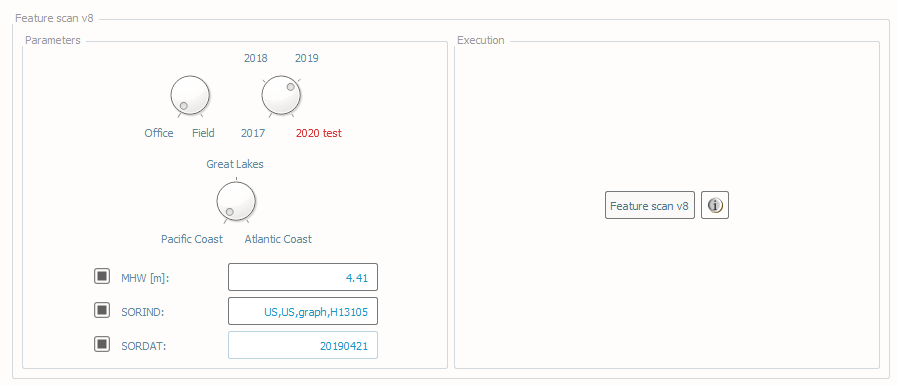
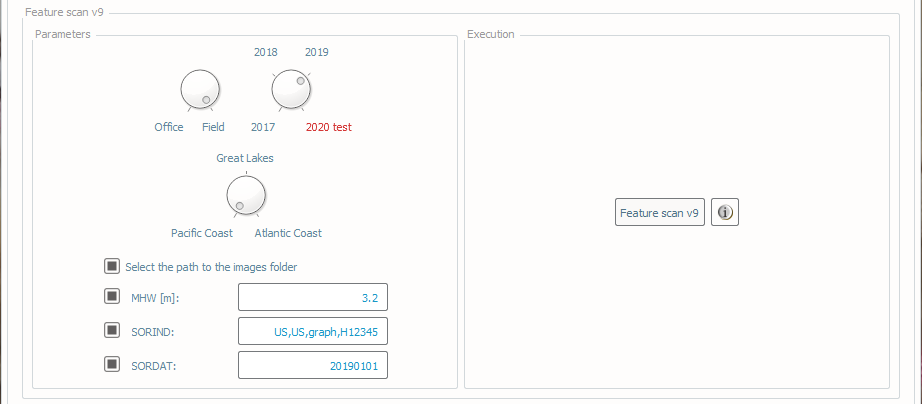
docs updates after Tyanne

Changed region(s): [[0.0, 0.0, 1.0, 1.0], [0.6548, 0.4663, 0.8107, 0.5596], [0.0935, 0.7772, 0.1871, 0.8394]]

diff --git a/examples/workground/ex_how_to_read_grid_layers.py b/examples/workground/ex_how_to_read_grid_layers.py
@@ -11,7 +11,7 @@ default_logging.load()
 logger = logging.getLogger()
 
 # path = r"C:\Users\gmasetti\Google Drive\QC Tools\data\survey\QuickTest.bag"
-path = r"C:\Users\gmasetti\Google Drive\QC Tools\data\survey\Find Fliers\VR_Test\H13015_MB_VR_MLLW_Final_Extracted.csar"
+path = r"C:\Users\gmasetti\Google Drive\QC Tools\data\survey\Find Fliers\VR_Test\H13015_MB_VR_MLLW_Final_Extracted_8_tiles.csar"
 DEFAULT_CHUNK_SIZE = 4294967296  # 4GB
 
 grids = GridsManager()

diff --git a/docs/user_manual_survey_scan_features.rst b/docs/user_manual_survey_scan_features.rst
@@ -23,6 +23,8 @@ In order to access this tool, load an S-57 file into the **Data Inputs** tab.
 
   #. Turn the knob to select the applicable location. (This effects the definition of WATLEV per the HSSD.)
 
+  #. When **Select the path to the images folder** is set, the user can navigate to their multimedia or images folder upon exicution of the tool. When this is unchecked, Feature scan will search in the relative path that the feature file is located. 
+  
   #. **MHW** value is required to check proper attribution of WATLEV per the HSSD. Enter MHW value as a positive number. (This value is not used for Great Lakes).
 
   #. When **SORIND** and **SORDAT** are set, the entered values are compared to the attribution of new and updated features.
@@ -30,7 +32,7 @@ In order to access this tool, load an S-57 file into the **Data Inputs** tab.
 .. index::
     single: feature scan
 
-* In **Execution**, click **Feature scan v8** (note that the '2019 test' option is used to experiment with future
+* In **Execution**, click **Feature scan v8** (note that the '2020 test' option is used to experiment with future
   requirements).
 
 .. _fig_feature_scan:
@@ -66,7 +68,7 @@ How Does It Work?
 
 The S-57 features are scanned to ensure proper attribution per the required year of HSSD.
 
-The logic for the 2018 QC Tools feature scan is shown below. For previous years, refer to the HSSD for that year.
+The logic for the 2019 QC Tools feature scan is shown below. For previous years, refer to the HSSD for that year.
 
 * Check to ensure no feature redundancy.
 * All new and updated features except **"$AREAS", "$LINES", "$CSYMB", "$COMPS",** and **"$TEXTS"**.
@@ -102,11 +104,13 @@ The logic for the 2018 QC Tools feature scan is shown below. For previous years,
 * Additionally, if MHW flag is set, all features with **VALSOU** are checked for valid value and proper **WATLEV** attribution. [3]_
 * All features with **"ELEVAT"** are checked for valid value.
 * All **M_COVR** must have **"CATCOV", "INFORM",** and **"NINFOM".**
+* All **"images"** contain the correct naming convention and they have a corresponding image in the multimedia folder. 
 * Specific for the Office Profile:
     * All features must have **"onotes".**
     * All features must have **"hsdrec".**
     * Checks for features that are prohibited by MCD (**"DRGARE", "LOGPON", "PIPARE", "PIPOHD", "PIPSOL", "DMPGRD" "LIGHTS", "BOYLAT", "BOYSAW", "BOYSPP", "DAYMAR", "FOGSIG", "CBLSUB", "CBLARE", "FAIRWY", "RTPBCN", "BOYISD", "BOYINB", "BOYCAR", "CBLOHD", "OBSTRN"** with **"CATOBS"** = 5, **MORFAC** with **CATMOR** = 7.
     * All **M_QUAL** features must have **"CATZOC", "SURSTA", "SUREND",** and **"TECSOU".**
+    * All features must have **"descrp"** and **remrks"**.
 
 .. rubric:: Footnotes
 
@@ -147,7 +151,7 @@ The logic for the 2018 QC Tools feature scan is shown below. For previous years,
 
 **NATSUR**: mud (1), clay (2), silt (3), sand (4), stone (5), gravel (6), pebbles (7), cobbles (8), rock (9), lava (11), coral (14), shells (17), boulder (18)
 
-.. [3] Allowable combinations of **"WATLEV"** per **"VALSOU"** depending on location are shown below as stated in Appendix F in the 2018 Hydrographic Specifications and Deliverables.
+.. [3] Allowable combinations of **"WATLEV"** per **"VALSOU"** depending on location are shown below as stated in Appendix E in the 2019 Hydrographic Specifications and Deliverables.
 
 .. _fig_WATLEV_attribution:
 .. figure:: _static/watlev_table.png

diff --git a/docs/user_manual_survey_sbdare_export.rst b/docs/user_manual_survey_sbdare_export.rst
@@ -3,7 +3,7 @@
 SBDARE export
 -------------
 
-Generates a text file and shapefile for archival that includes, if available, linked bottom sample images and a translation
+Generates a text file and shape file for archival that includes, if available, linked bottom sample images and a translation
 of the S-57 attribution to the Coastal and Marine Ecological Classification Standard (CMECS).
 
 In order to access this tool, load a grid and an S-57 file into the **Data Inputs** tab. 
@@ -31,7 +31,7 @@ How to Use?
     :align: center
     :alt: logo
 
-    SBDARE export's interface.
+    SBDARE exports interface.
 
 * After computing, the output window opens automatically, and the results are shown. Any errors that occur while processing will appear in the output message. (:numref:`sbdare_results`):
 
@@ -40,9 +40,31 @@ How to Use?
     :align: center
     :alt: logo
 
-    SBDARE export's output message.
+    SBDARE exports output message.
 
 * The output is in the proper format for archival.
 
+|
 
+-----------------------------------------------------------
 
+|
+
+How Does It Work?
+^^^^^^^^^^^^^^^^^
+
+For both settings, SBDARE export selects only SBDARE point features in the feature file and exports them into the appropriate outputs per their respective HTD. 
+
+When the toggle is set to the **HTD 2013-3**, SBDARE features are exported into a semicolon delimited ASCII with the following information: Latitude, Longitude, Observed time, Colour, Nature of surface - qualifying terms, Nature of surface; Remarks, Source date, and Source indication. 
+
+When the toggle is set to the **HTD 2014-4**, SBDARE features are exported into two different files: a semicolon delimited ASCII and a shape file. 
+
+Both the semicolon delimited ASCII file and the shape file contain the following information: Latitude, Longitude, Observed time, Colour, Nature of surface - qualifying terms, Nature of surface, Remarks, Source date, Source indication, Images, CMECS Co-occurring Element 1 Name, and CMECS Co-occurring Element 1 Code, CMECS Co-occurring Element 2 Name, and CMECS Co-occurring Element 2 Code.
+
+**Colour**, **Nature of surface - qualifying terms** (NATSUR), and **Nature of surface** (NATQUA) are all limited to three or fewer terms. If the feature file contains more than three terms per attribute, the first three are selected. Additionally, only a maximum of four **images** are allowed per feature. If there are more than four images for a feature, the first four are selected for export. 
+
+If **"Set EXIF GPS in JPEG images to S57 position"** is selected, all associated images will have the GPS metadata in the JPEG file match the location of the bottom sample in the feature file. This allows future users to utilize these images in GIS software as they are geotagged. 
+
+SBDARE export translates the **NATSUR** and **NATQUA** to the appropriate Coastal and Marine Ecological Classification Standard June 2012 (**CMECS**) standard. A crosswalk table used for this classification can be found in Appendix E of HTD 2018-4 Bottom Sample Drop Camera Imagery. 
+
+A zip file is created containing the shape file and "Images" folder with the images. If no images are available, a text file is created indication that the image folder is intentionally left empty. 
